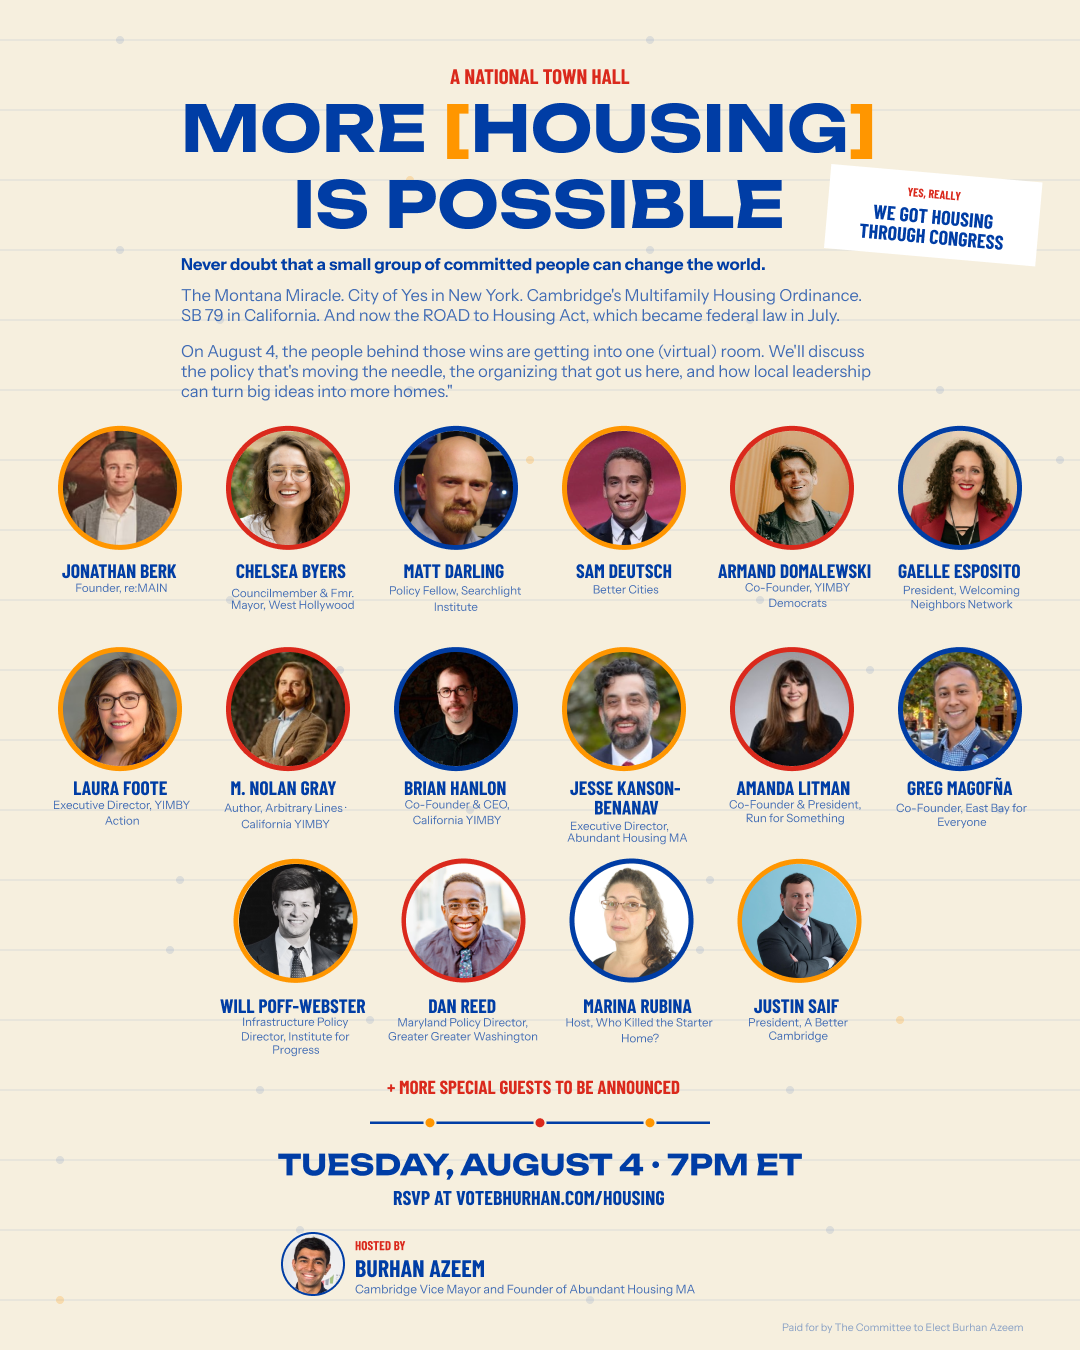
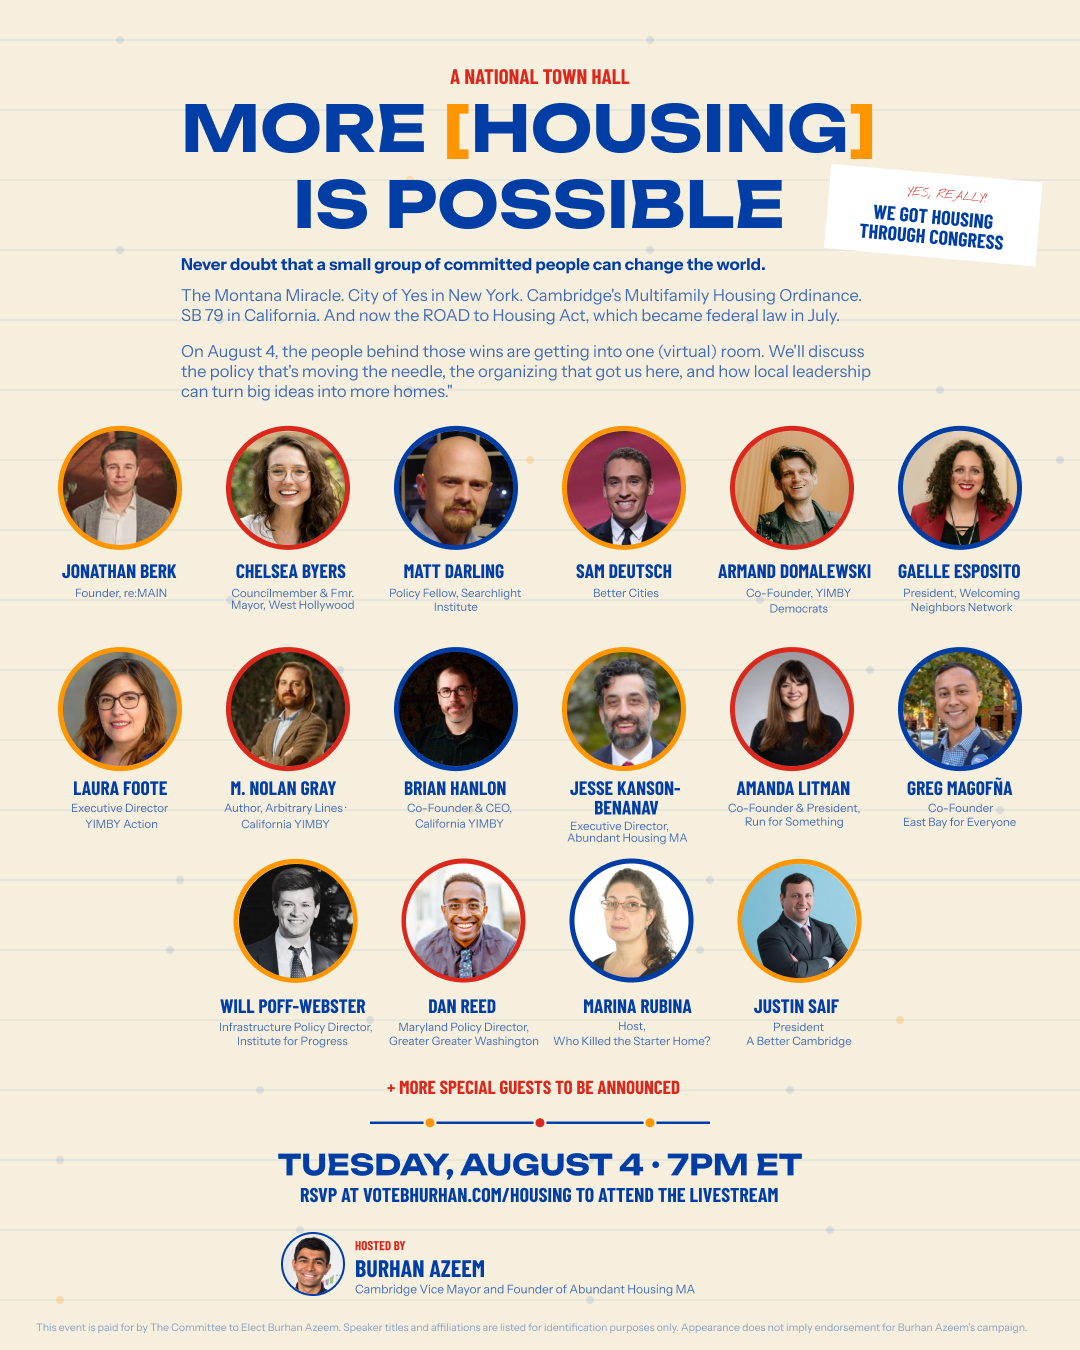
added disclaimer

diff --git a/project/site/site.css b/project/site/site.css
@@ -121,7 +121,7 @@ a { color: inherit; }
 .fcta p { font-family: var(--font-body); font-size: 20px; color: #fff; max-width: 60ch; margin: 0; opacity: .95; white-space: pre-line; }
 .fcta .fbtns { display: inline-grid; grid-auto-flow: column; grid-auto-columns: 1fr; gap: 16px; justify-content: center; }
 .fcta .fbtns .btn { justify-content: center; }
-.fcopy { display: flex; align-items: center; justify-content: space-between; gap: 16px; padding: 22px 40px; background: #00256a; color: rgba(255,255,255,.78); font-size: 14px; flex-wrap: wrap; }
+.fcopy { display: flex; align-items: center; justify-content: space-between; gap: 16px; padding: 22px calc((100vw - 100%) / 2 + 40px); margin-left: calc((100% - 100vw) / 2); margin-right: calc((100% - 100vw) / 2); background: #00256a; color: rgba(255,255,255,.78); font-size: 14px; flex-wrap: wrap; }
 .fcopy a { color: #fff; text-decoration: none; }
 .fcopy a:hover { text-decoration: underline; }
 
